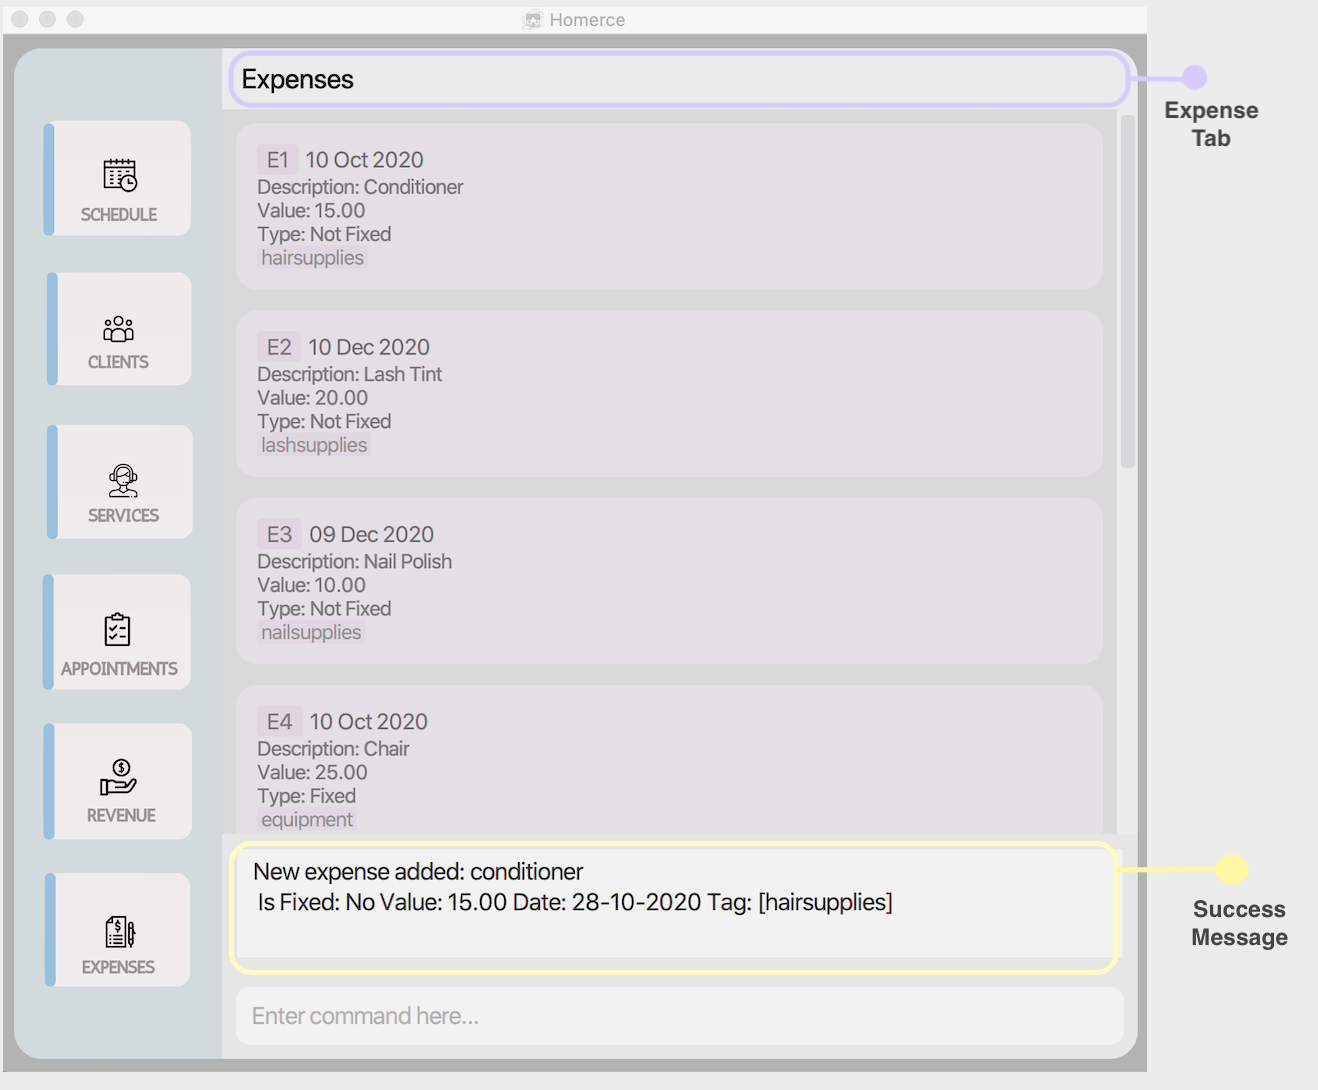
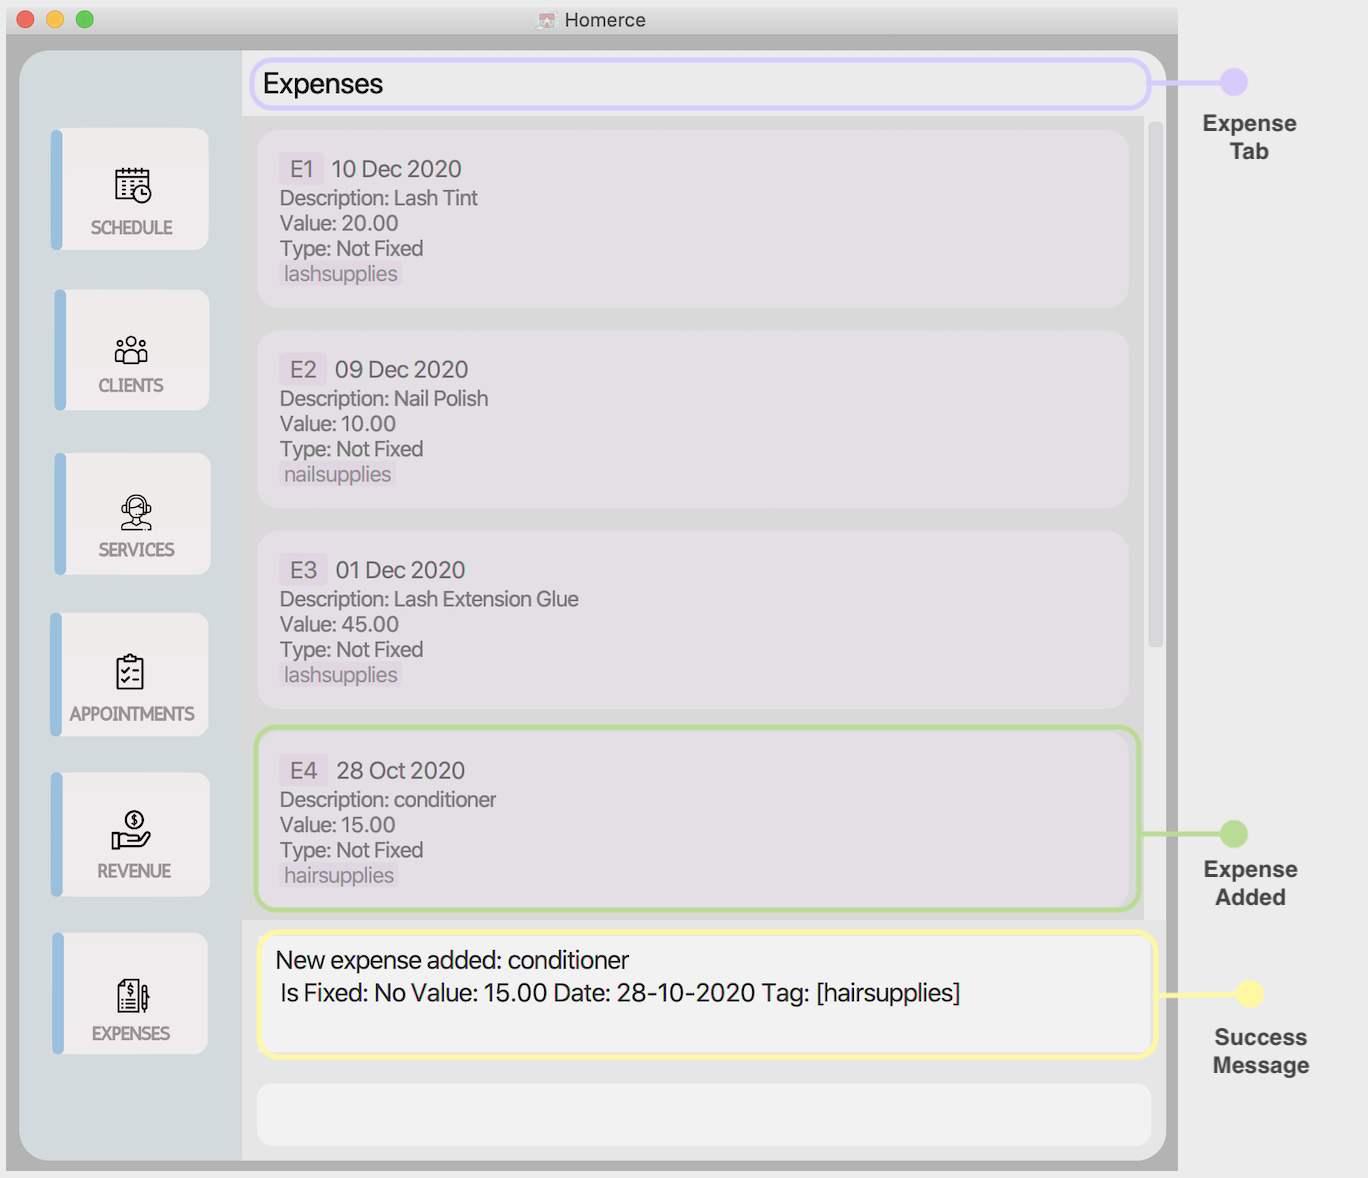
Fix Bugs from GUI Testing

Changed region(s): [[0.0, 0.0, 0.9954, 0.9982], [0.1866, 0.2807, 0.3422, 0.4367]]

diff --git a/src/main/java/seedu/homerce/model/manager/RevenueTracker.java b/src/main/java/seedu/homerce/model/manager/RevenueTracker.java
@@ -7,6 +7,7 @@ import java.util.Objects;
 import java.util.logging.Logger;
 import java.util.stream.Collectors;
 
+import javafx.collections.FXCollections;
 import javafx.collections.ObservableList;
 import seedu.homerce.model.revenue.Revenue;
 import seedu.homerce.model.revenue.RevenueComparator;
@@ -19,6 +20,7 @@ import seedu.homerce.model.util.nonuniquelist.NonUniqueList;
 public class RevenueTracker implements ReadOnlyRevenueTracker {
 
     private final NonUniqueList<Revenue> revenues;
+    private final RevenueDefaultComparator revenueDefaultComparator = new RevenueDefaultComparator();
     private final Logger logger;
 
     /**
@@ -89,6 +91,7 @@ public class RevenueTracker implements ReadOnlyRevenueTracker {
     public void addRevenue(Revenue r) {
         revenues.add(r);
         logger.info("Added revenue entry to Revenue List");
+        FXCollections.sort(revenues.getInternalList(), revenueDefaultComparator);
     }
 
 

diff --git a/src/main/java/seedu/homerce/model/manager/ExpenseTracker.java b/src/main/java/seedu/homerce/model/manager/ExpenseTracker.java
@@ -7,6 +7,7 @@ import java.util.Objects;
 import java.util.function.Predicate;
 import java.util.stream.Collectors;
 
+import javafx.collections.FXCollections;
 import javafx.collections.ObservableList;
 import seedu.homerce.model.expense.Expense;
 import seedu.homerce.model.expense.ExpenseComparator;
@@ -15,6 +16,7 @@ import seedu.homerce.model.util.nonuniquelist.NonUniqueList;
 
 public class ExpenseTracker implements ReadOnlyExpenseTracker {
     private final NonUniqueList<Expense> expenses;
+    private final ExpenseDefaultComparator expenseDefaultComparator = new ExpenseDefaultComparator();
 
     public ExpenseTracker() {
         this.expenses = new NonUniqueList<>();
@@ -52,6 +54,7 @@ public class ExpenseTracker implements ReadOnlyExpenseTracker {
      */
     public void addExpense(Expense e) {
         expenses.add(e);
+        FXCollections.sort(expenses.getInternalList(), expenseDefaultComparator);
     }
 
     /**

diff --git a/src/main/java/seedu/homerce/model/util/nonuniquelist/NonUniqueList.java b/src/main/java/seedu/homerce/model/util/nonuniquelist/NonUniqueList.java
@@ -11,6 +11,9 @@ import java.util.stream.Stream;
 
 import javafx.collections.FXCollections;
 import javafx.collections.ObservableList;
+import seedu.homerce.model.expense.Expense;
+import seedu.homerce.model.expense.ExpenseDefaultComparator;
+import seedu.homerce.model.revenue.RevenueDefaultComparator;
 import seedu.homerce.model.util.nonuniquelist.exceptions.ItemNotFoundException;
 
 public class NonUniqueList<T> implements Iterable<T> {
@@ -117,6 +120,13 @@ public class NonUniqueList<T> implements Iterable<T> {
      */
     public void sort(Comparator<T> comparator) {
         FXCollections.sort(internalList, comparator);
+    }
+
+    /**
+     * Returns the Non Unique List as a {@code ObservableList}
+     */
+    public ObservableList<T> getInternalList() {
+        return this.internalList;
     }
 }
 
